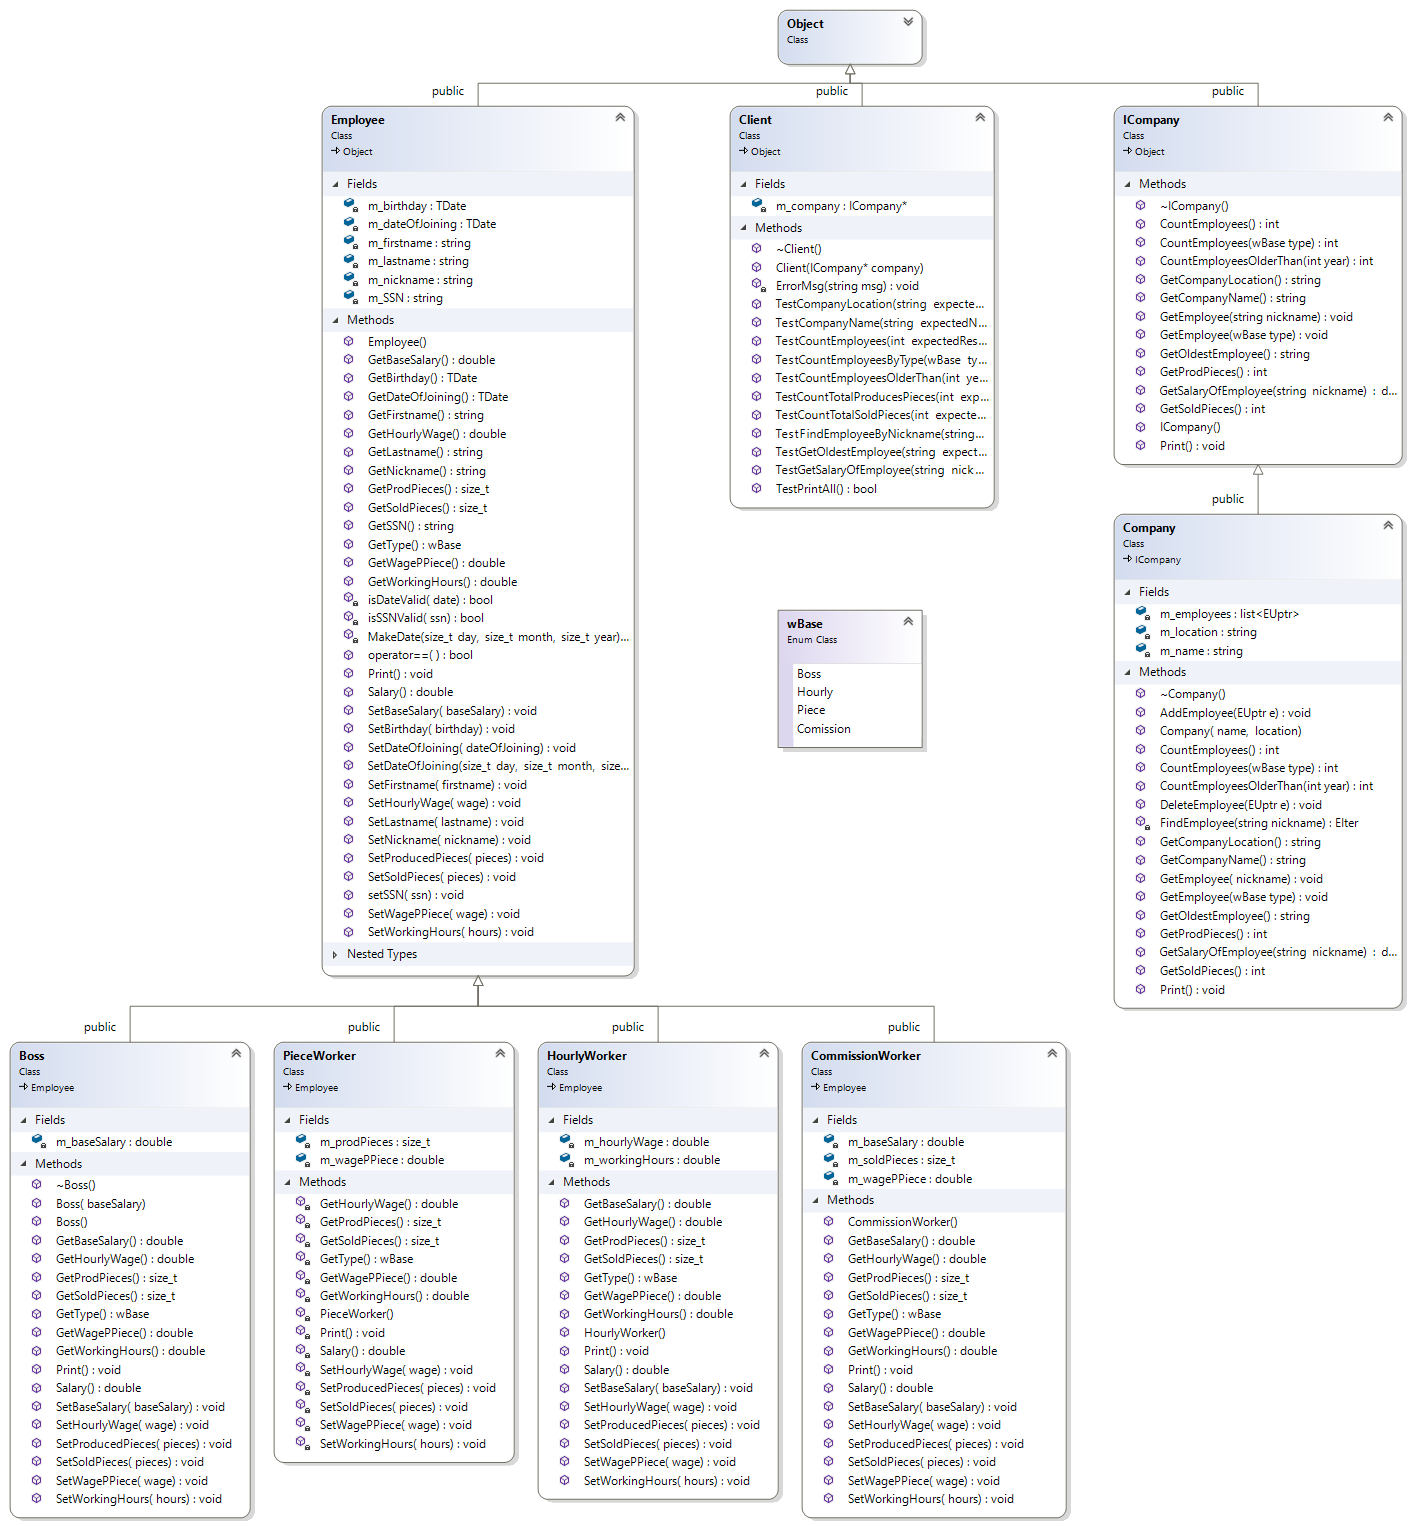
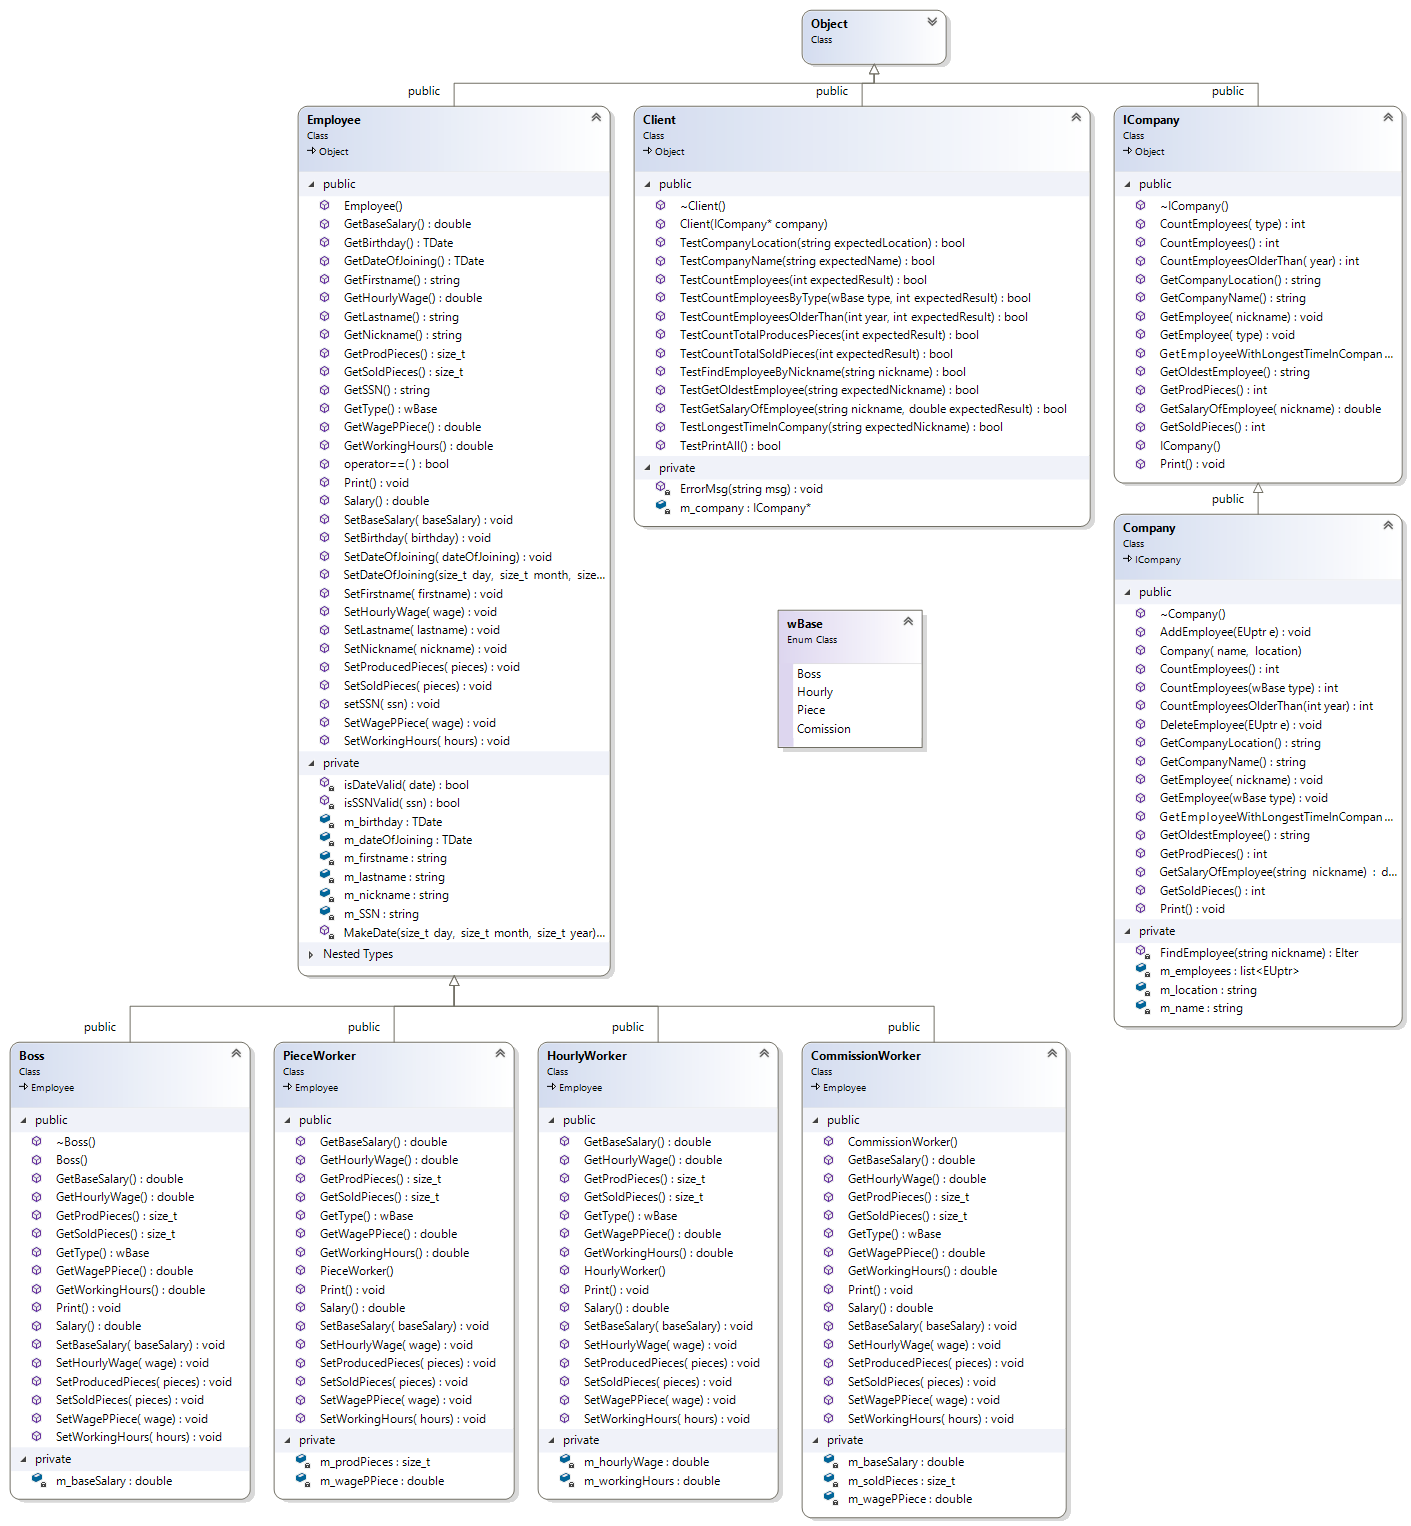
documentation class diagramm

diff --git a/Exercise2/CalcSalary/CalcSalary/Boss.h b/Exercise2/CalcSalary/CalcSalary/Boss.h
@@ -7,7 +7,6 @@
 class Boss : public Employee {
 public:
 	Boss() : m_baseSalary{ 0 } {}
-	Boss(double const baseSalary);
 	virtual ~Boss() override = default;
 
 	virtual wBase GetType() const override;

diff --git a/Exercise2/CalcSalary/CalcSalary/Boss.cpp b/Exercise2/CalcSalary/CalcSalary/Boss.cpp
@@ -1,9 +1,5 @@
 #include "Boss.h"
 
-Boss::Boss(double const baseSalary) {
-	m_baseSalary = baseSalary;
-}
-
 wBase Boss::GetType() const {
 	return wBase::Boss;
 }
